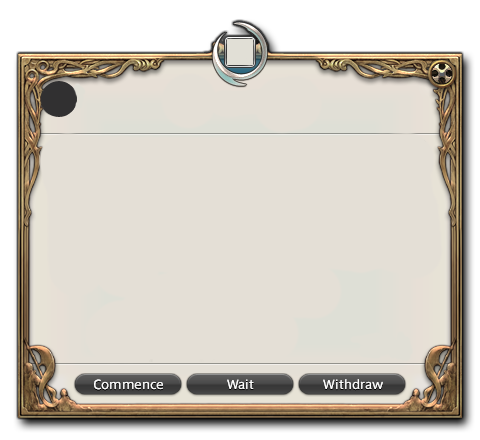
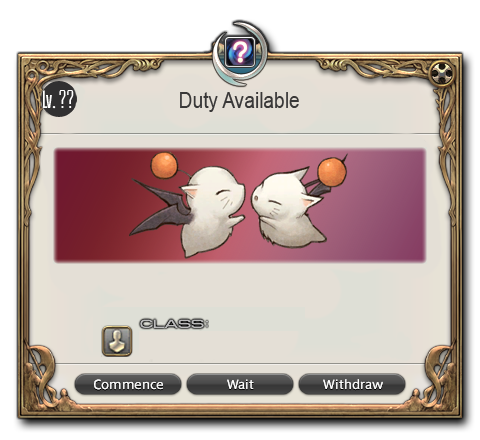
added default view when client is minimized

diff --git a/Popup.cs b/Popup.cs
@@ -142,30 +142,26 @@ namespace dutynotifier {
 
         [DllImport( "kernel32.dll", SetLastError = true )]
         public static extern IntPtr OpenProcess( ProcessAccessFlags processAccess, bool bInheritHandle, int processId );
-
         [DllImport( "kernel32.dll", SetLastError = true )]
         public static extern bool CloseHandle( System.IntPtr handle );
         [DllImport( "kernel32.dll", SetLastError = true )]
         public static extern bool ReadProcessMemory( System.IntPtr hProcess, System.IntPtr lpBaseAddress, [Out] byte[] lpBuffer, int dwSize, out int lpNumberOfBytesRead );
         [DllImport( "user32.dll", CharSet = CharSet.Auto, SetLastError = true )]
         public static extern IntPtr GetForegroundWindow();
-
         [DllImport( "user32.dll", CharSet = CharSet.Auto, SetLastError = true )]
         public static extern bool SetForegroundWindow( IntPtr hWnd );
-
         [DllImport( "user32.dll", CharSet = CharSet.Auto, SetLastError = true )]
         public static extern bool GetWindowRect( IntPtr hWnd, out RECT lpRect );
         [DllImport( "user32.dll", CharSet = CharSet.Auto, SetLastError = true )]
         public static extern bool ClientToScreen( IntPtr hWnd, ref POINT lpPoint );
-
         [DllImport( "user32.dll" )]
         public static extern bool PrintWindow( IntPtr hWnd, IntPtr hdcBlt, int nFlags );
+        [DllImport( "user32.dll", SetLastError = true )]
+        public static extern int GetWindowLong( IntPtr hWnd, int nIndex );
 
-        [DllImport( "user32.dll", CharSet = CharSet.Auto, SetLastError = true )]
-        public static extern int GetSystemMetrics( int id );
-        const int SM_CXSIZEFRAME = 32;
-        const int SM_CYSIZEFRAME = 33;
-        const int SM_CYCAPTION = 4;
+        const int WS_MINIMIZE = 0x20000000;
+
+
         #endregion
 
         #region initialize
@@ -355,10 +351,10 @@ namespace dutynotifier {
                     BitmapInterpolationMode.Linear,
                     new SharpDX.RectangleF( popupLoc.X, popupLoc.Y + ( 308 - bgtop ), w, h ) //src
                     );
-
-                //draw time
-                this.Device.DrawText( "0:" + timeLeft.ToString( "00" ), this.TimeTextFormat, new SharpDX.RectangleF( 794 - 444 + bgleft, 459 - 178 + bgtop, 100, 30 ), this.TimeBrush );
             }
+
+            //draw time
+            this.Device.DrawText( "0:" + timeLeft.ToString( "00" ), this.TimeTextFormat, new SharpDX.RectangleF( 794 - 444 + bgleft, 459 - 178 + bgtop, 100, 30 ), this.TimeBrush );
 
             this.Device.EndDraw();
         }
@@ -380,35 +376,58 @@ namespace dutynotifier {
 
                 if( p != null ) {
                     lastTargetWindow = p.MainWindowHandle;
+                    int style;
 
                     switch( popupstate ) {
                         case PopupState.Visible:
-                            if( bmp == null ) {
-                                //get image from client
-                                bmp = ConvertBitmap( this.Device, ( System.Drawing.Bitmap )PrintWindow( p.MainWindowHandle, out wndLoc ).Clone() );
+                            style = GetWindowLong( p.MainWindowHandle, -16 ); //get GWL_STYLE
 
-                                popupLoc = new System.Drawing.Point( newpopupLoc.X + 10, newpopupLoc.Y + 36 );
-                                
-                                //add offsets by window frame
-                                POINT clientCoord = new POINT();
-                                ClientToScreen( p.MainWindowHandle, ref clientCoord );
+                            if( ( style & WS_MINIMIZE ) == WS_MINIMIZE ) { //It's minimized, show placeholder in center of screen
 
-                                popupLoc.X += clientCoord.X - wndLoc.X;
-                                popupLoc.Y += clientCoord.Y - wndLoc.Y;
-                                
-                                //position popup at same position as ingame
+                                this.Draw( seconds, null, newpopupLoc );
+
                                 this.Invoke( new Action( () => {
-                                    Location = new System.Drawing.Point( wndLoc.X + popupLoc.X - 17, wndLoc.Y + popupLoc.Y - 53 );
+                                    System.Drawing.Rectangle rcScreen = Screen.PrimaryScreen.WorkingArea;
+                                    Location = new System.Drawing.Point(
+                                        rcScreen.Left + rcScreen.Width / 2 - this.Width / 2,
+                                        rcScreen.Top + rcScreen.Height / 2 - this.Height / 2
+                                        );
                                 } ) );
-                            }
 
-                            if( !this.Visible ) {
-                                this.Invoke( new Action( () => {
-                                    this.Visible = true;
-                                } ) );
-                            }
+                                if( !this.Visible ) {
+                                    this.Invoke( new Action( () => {
+                                        this.Visible = true;
+                                    } ) );
+                                }
+                            } else {
+                                if( bmp == null ) {
+                                    //get image from client
+                                    bmp = ConvertBitmap( this.Device, ( System.Drawing.Bitmap )PrintWindow( p.MainWindowHandle, out wndLoc ).Clone() );
 
-                            this.Draw( seconds, bmp, popupLoc );
+                                    popupLoc = new System.Drawing.Point( newpopupLoc.X + 10, newpopupLoc.Y + 36 );
+
+                                    //add offsets by window frame
+                                    POINT clientCoord = new POINT();
+                                    ClientToScreen( p.MainWindowHandle, ref clientCoord );
+
+                                    popupLoc.X += clientCoord.X - wndLoc.X;
+                                    popupLoc.Y += clientCoord.Y - wndLoc.Y;
+
+                                    //position popup at same position as ingame
+                                    this.Invoke( new Action( () => {
+                                        Location = new System.Drawing.Point( wndLoc.X + popupLoc.X - 17, wndLoc.Y + popupLoc.Y - 53 );
+                                    } ) );
+
+                                    if( !this.Visible ) {
+                                        this.Invoke( new Action( () => {
+                                            this.Visible = true;
+                                        } ) );
+                                    }
+                                }
+
+
+                                this.Draw( seconds, bmp, popupLoc );
+                            }
                             break;
                         case PopupState.NotVisible:
                         case PopupState.Locked:
@@ -462,7 +481,7 @@ namespace dutynotifier {
             } else {
                 if( seconds > 0 && lastTime == 0 && popupstate == PopupState.NotVisible ) {
                     popupLoc = this.ReadPopupLocation( p );
-                                        
+
                     popupstate = PopupState.Visible;
                 } else if( seconds == 0 && popupstate == PopupState.Locked ) {
                     popupstate = PopupState.NotVisible;
